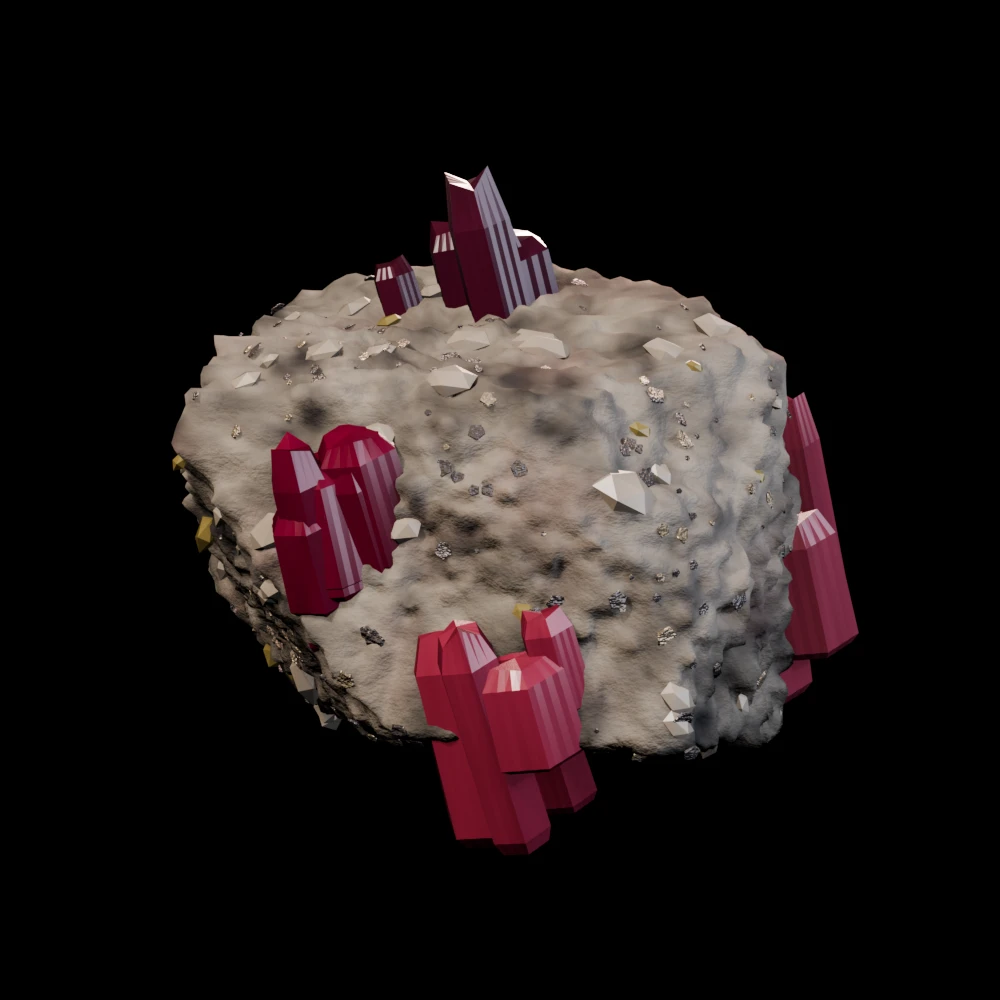
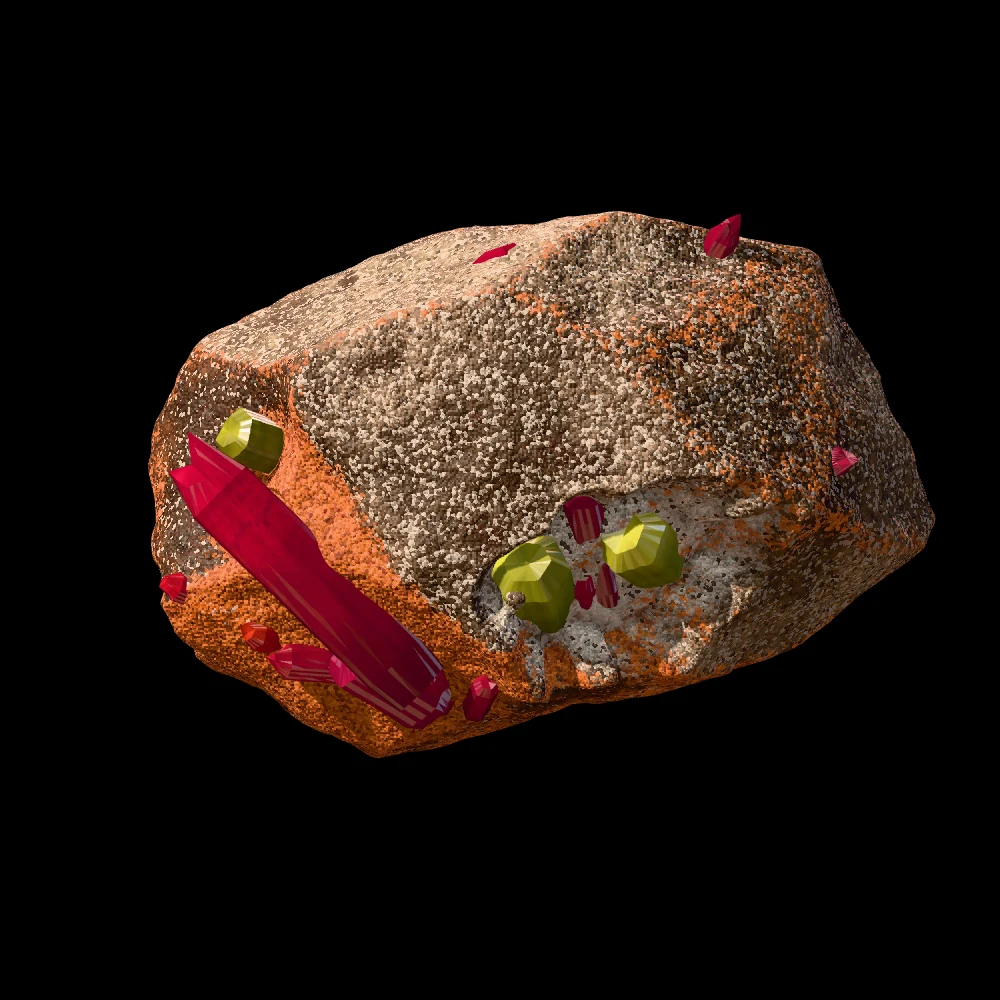
docs(specimen): regenerate poster from the live scene and update README

diff --git a/README.md b/README.md
@@ -13,11 +13,18 @@ to zoom, and Home or Escape to reset.
 
 ## Implementation
 
-Next.js, TypeScript, and Three.js. The original model and materials are generated
-locally: a fractured pale matrix with dark red, tourmaline-inspired inclusions.
-It is an artistic interpretation of a rubidium-bearing mineral specimen, **not
-pure elemental rubidium** or a reconstruction of a particular photographed sample.
-No third-party photographs, textures, fonts, or model downloads are used.
+Next.js, TypeScript, and Three.js. The specimen is generated locally with no
+downloaded models or textures: a fractured smoky-quartz block with iron-oxide
+staining, dark mica, a chalky pocket, translucent rubellite (pink tourmaline)
+prisms and olive-green crystals. It is an artistic interpretation of a
+rubidium-bearing mineral specimen, **not pure elemental rubidium**.
+
+- `rock.ts` carves the block from fracture planes, bakes cavity shading, and
+  computes broad colour per vertex.
+- `rockMaterial.ts` draws the fine detail per pixel in object space: cellular
+  mineral grains, feldspar flecks, sugary rust, and micro-relief bump.
+- `crystals.ts` builds the striated hexagonal prisms; `mineral.ts` assembles
+  and places them, and `scene.ts` sets up lighting and controls.
 
 The 3D engine loads separately from the page. Rendering runs on demand, pauses in
 hidden tabs, and caps the drawing-buffer resolution. Reduced motion disables
@@ -34,16 +41,18 @@ Reference: [rubidium's properties and occurrence](https://periodic-table.rsc.org
 
 ## Regenerating the poster
 
-The checked-in poster needs no build-time tools. To update it after changing the
-model, use Bun and Blender in background mode:
+The checked-in poster (`public/specimen.webp`) is a 1000×1000 capture of the live
+scene, shown until WebGL is ready. Rebuild it after changing the model or camera:
 
 ```sh
-bun scripts/export-specimen.ts --output /tmp/ycells-specimen.json
-blender --background --python scripts/render-specimen.py -- \
-  --input /tmp/ycells-specimen.json --output public/specimen.webp \
-  --preview /tmp/ycells-specimen-preview.png --size 1000
+pnpm build && pnpm start -p 3112 &
+"/Applications/Google Chrome.app/Contents/MacOS/Google Chrome" --headless=new \
+  --screenshot=/tmp/poster.png --window-size=1000,1000 --hide-scrollbars \
+  --virtual-time-budget=40000 --use-angle=swiftshader --enable-unsafe-swiftshader \
+  --ignore-gpu-blocklist http://localhost:3112
 ```
 
-The poster uses the same mesh and camera fit with approximate Blender lighting;
-it is not a browser screenshot. The live version adds pointer-responsive light
-and physically based reflections.
+Then convert `/tmp/poster.png` to WebP (for example with Pillow:
+`Image.open(...).save("public/specimen.webp", "WEBP", quality=88)`).
+`scripts/export-specimen.ts` and `scripts/render-specimen.py` are the older Blender
+route; they do not reproduce the shader-based surface.
